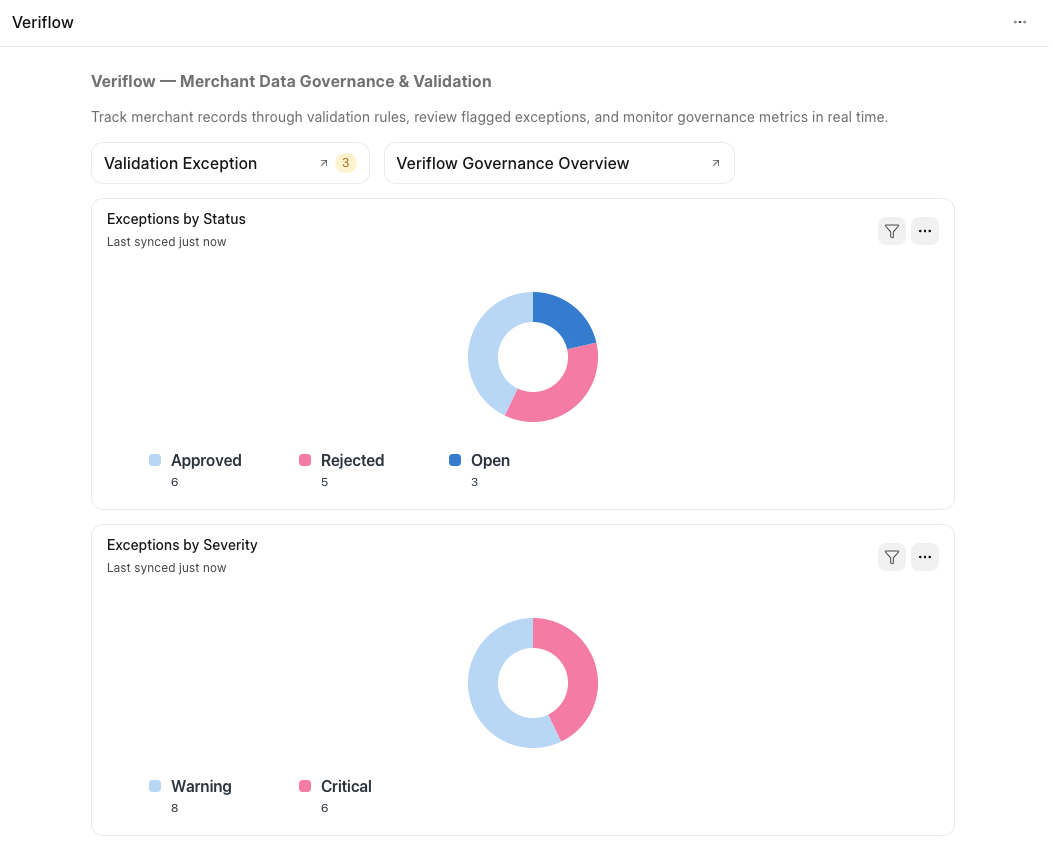
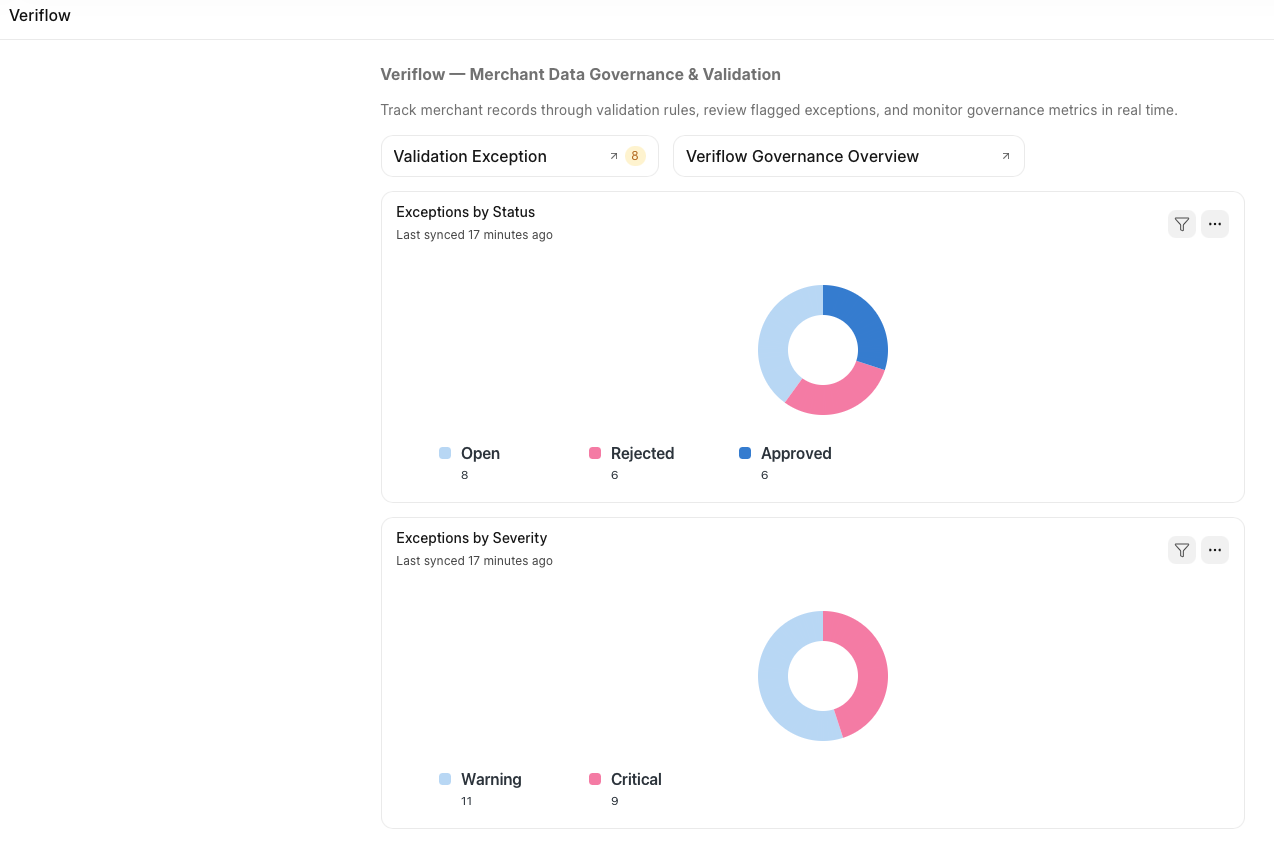
docs: document rule engine, auto-escalation, and print format

diff --git a/README.md b/README.md
@@ -2,14 +2,17 @@
 
 **A data governance and validation workflow app built on Frappe.**
 
-Veriflow simulates real-world merchant data governance: records flow
-through configurable validation rules, rule violations are tracked as
-reviewable exceptions, and every reviewer decision is automatically
-logged in a tamper-resistant audit trail — no manual step required.
+Veriflow simulates real-world merchant data governance: records are
+automatically checked against configurable validation rules, rule
+violations are tracked as reviewable exceptions, aged exceptions are
+auto-escalated, and every reviewer decision is automatically logged in
+a tamper-resistant audit trail — no manual step required anywhere in
+the pipeline.
 
 Built as a portfolio project to demonstrate practical Frappe Framework
-development: custom DocTypes, server-side automation, role-gated
-workflows, reporting, dashboards, and API design.
+development: custom DocTypes, server-side automation, scheduled jobs,
+role-gated workflows, reporting, dashboards, API design, and
+compliance-style document export.
 
 ---
 
@@ -33,6 +36,12 @@ American Express — with a data model, automation, and reporting to match.
 **Exception Aging report** — backlog sorted oldest-first, with severity filter
 ![Exception Aging report](docs/exception-aging-report.png)
 
+**Audit Log entry** — an auto-escalation event, fully explained
+![Audit Log auto-escalation](docs/audit-log-escalation.png)
+
+**Compliance Report** — printable/PDF export of a reviewed exception
+![Compliance report PDF](docs/compliance-report.png)
+
 ---
 
 ## Architecture
@@ -53,9 +62,25 @@ Data Quality Rule ← Validation Exception → Audit Log
   Merchant Record. Links back to both the record and the rule that
   failed it.
 - **Audit Log** — an automatically-populated, read-only trail of every
-  status change on every exception. Never manually editable.
+  status change and system action on every exception. Never manually
+  editable.
 - **Veriflow Settings** — a Single DocType for global configuration
   (default severity, aging threshold, escalation contact).
+
+**Rule engine (automated):** an hourly scheduled job
+(`scheduler_events` in `hooks.py`) evaluates every active Data Quality
+Rule against every Merchant Record, automatically creating a
+Validation Exception for any failure — with duplicate protection so
+the same violation isn't re-flagged on every run. A manual "Run Rule
+Engine" button on the Merchant Record list view triggers the same
+check on demand.
+
+**Auto-escalation:** a daily scheduled job reads the aging threshold
+from Veriflow Settings, finds Open exceptions that have exceeded it,
+escalates their severity to Critical, logs the escalation as an Audit
+Log entry explaining why, and attempts to email the configured
+governance contact (wrapped in a try/except so a missing outgoing
+email account — expected in local dev — doesn't crash the escalation).
 
 **Workflow:** Validation Exception moves through `Open → Approved /
 Rejected`, with `Reopen` paths back to `Open`. All transitions are
@@ -79,7 +104,14 @@ directly on the app's Workspace home page.
 **API:** a whitelisted method (`get_exception_summary()`) exposes
 aggregate exception stats, callable via `frappe.call()` or a direct
 REST-style URL — powers an interactive summary dialog triggered from a
-custom form button.
+custom form button. The rule engine itself is also whitelisted, powering
+the on-demand "Run Rule Engine" button.
+
+**Compliance export:** a custom Jinja Print Format ("Exception
+Compliance Report") renders a clean, printable/PDF record of any
+Validation Exception — merchant details, the rule violated, and the
+full review outcome — suitable for attaching to a compliance file. Set
+as the default print format for the DocType.
 
 ---
 
@@ -97,14 +129,17 @@ custom form button.
 |---|---|
 | Custom DocTypes | `veriflow/veriflow/doctype/` |
 | Server-side hooks (`doc_events`) | `veriflow/audit.py`, `hooks.py` |
+| Scheduled jobs (`scheduler_events`) | `veriflow/rule_engine.py`, `hooks.py` |
 | Client scripting | Client Scripts (fixtures) |
-| Whitelisted API | `veriflow/api.py` |
+| Whitelisted API | `veriflow/api.py`, `veriflow/rule_engine.py` |
 | Role-based permissions | Verified with a dedicated non-admin test user |
 | Workflow (state machine) | Fixtures — `Validation Exception Review` |
 | Script Report | `veriflow/veriflow/report/exception_aging/` |
 | Dashboard / Number Cards / Charts | Fixtures |
 | Custom Field / Property Setter | Fixtures — extends core `Contact` DocType |
+| Print Format (Jinja) | Fixtures — `Exception Compliance Report` |
 | Single DocType | `Veriflow Settings` |
+| Fixtures | `veriflow/fixtures/` |
 
 ---
 
@@ -116,24 +151,31 @@ bench --site yoursite.localhost install-app veriflow
 ```
 
 Installing the app automatically imports the fixtures (Workflow,
-Client Scripts, Dashboard, Role, etc.) via Frappe's standard fixture
-mechanism.
+Client Scripts, Dashboard, Role, Print Format, etc.) via Frappe's
+standard fixture mechanism.
 
 ---
 
 ## Known limitations
 
-- **Rule engine:** an hourly scheduled job (`scheduler_events` in `hooks.py`) automatically evaluates every active Data Quality Rule against every Merchant Record, creating a Validation Exception for any failure — with duplicate protection so the same violation isn't re-flagged on every run. This closes the loop: data comes in, gets checked automatically, surfaces as a reviewable exception, gets decided on, and the decision is logged automatically.
 - Two of the four seed Data Quality Rules ("Merchant Name Required,"
   "Category Required") duplicate constraints already enforced as
   mandatory fields on Merchant Record — they'd only become meaningful
   against data entering through a path that bypasses form validation
   (e.g. a bulk import script).
+- Escalation emails are attempted but will fail gracefully in any
+  environment without a configured outgoing Email Account (expected
+  for local dev) — the failure is logged to Frappe's Error Log rather
+  than sent, and does not block the escalation itself.
 - Single-user tested; no automated test suite yet.
 
 ---
 
 ## What I'd build next
 
-- Auto-escalation using `Veriflow Settings`' aging threshold
-- Print Format for compliance-style exception export
+- Real outgoing email configuration (e.g. via a test SMTP provider)
+  to demonstrate the full escalation notification path end-to-end
+- A second, dedicated intake path (e.g. a bulk import script) that
+  bypasses form-level validation, making the "required field" Data
+  Quality Rules meaningful rather than redundant
+- Automated test suite
